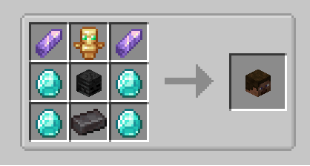
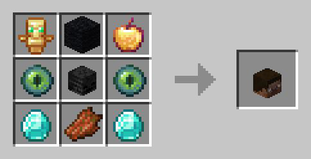
📃 docs: 上传所需文件并更新新人文档

diff --git a/docs/notes/docs/03公益服务器/四周目/01四周目新手指南.md b/docs/notes/docs/03公益服务器/四周目/01四周目新手指南.md
@@ -71,7 +71,9 @@ permalink: /docs/fourthserver_guidebook/
     - [四周目基础知识（也是生电机器坐标位置表格，点击查看）](https://docs.qq.com/sheet/DV0p5Zm90bEp2bkRT)
 4. 本服务器未开启死亡不掉落及tp功能
 5. 服务器添加了**鞘翅 玩家头颅 龙息**的合成配方，同时玩家头颅可以使用铁砧命名为其他玩家ID的方式，将其变为该玩家的头颅。
-
+    - **附魔金苹果配方**  
+         尽量减少跑图的范围与时间   
+         ![附魔金苹果配方](/img/03公益服务器/四周目/01四周目新手指南/附魔金苹果.png)
     - **鞘翅配方**：  
          可以向其他玩家借用，或使用其他玩家放在主城的共享鞘翅，作为合成材料。  
          注意作为原材料的鞘翅，如果本身有附魔，合成后无法保留附魔  
